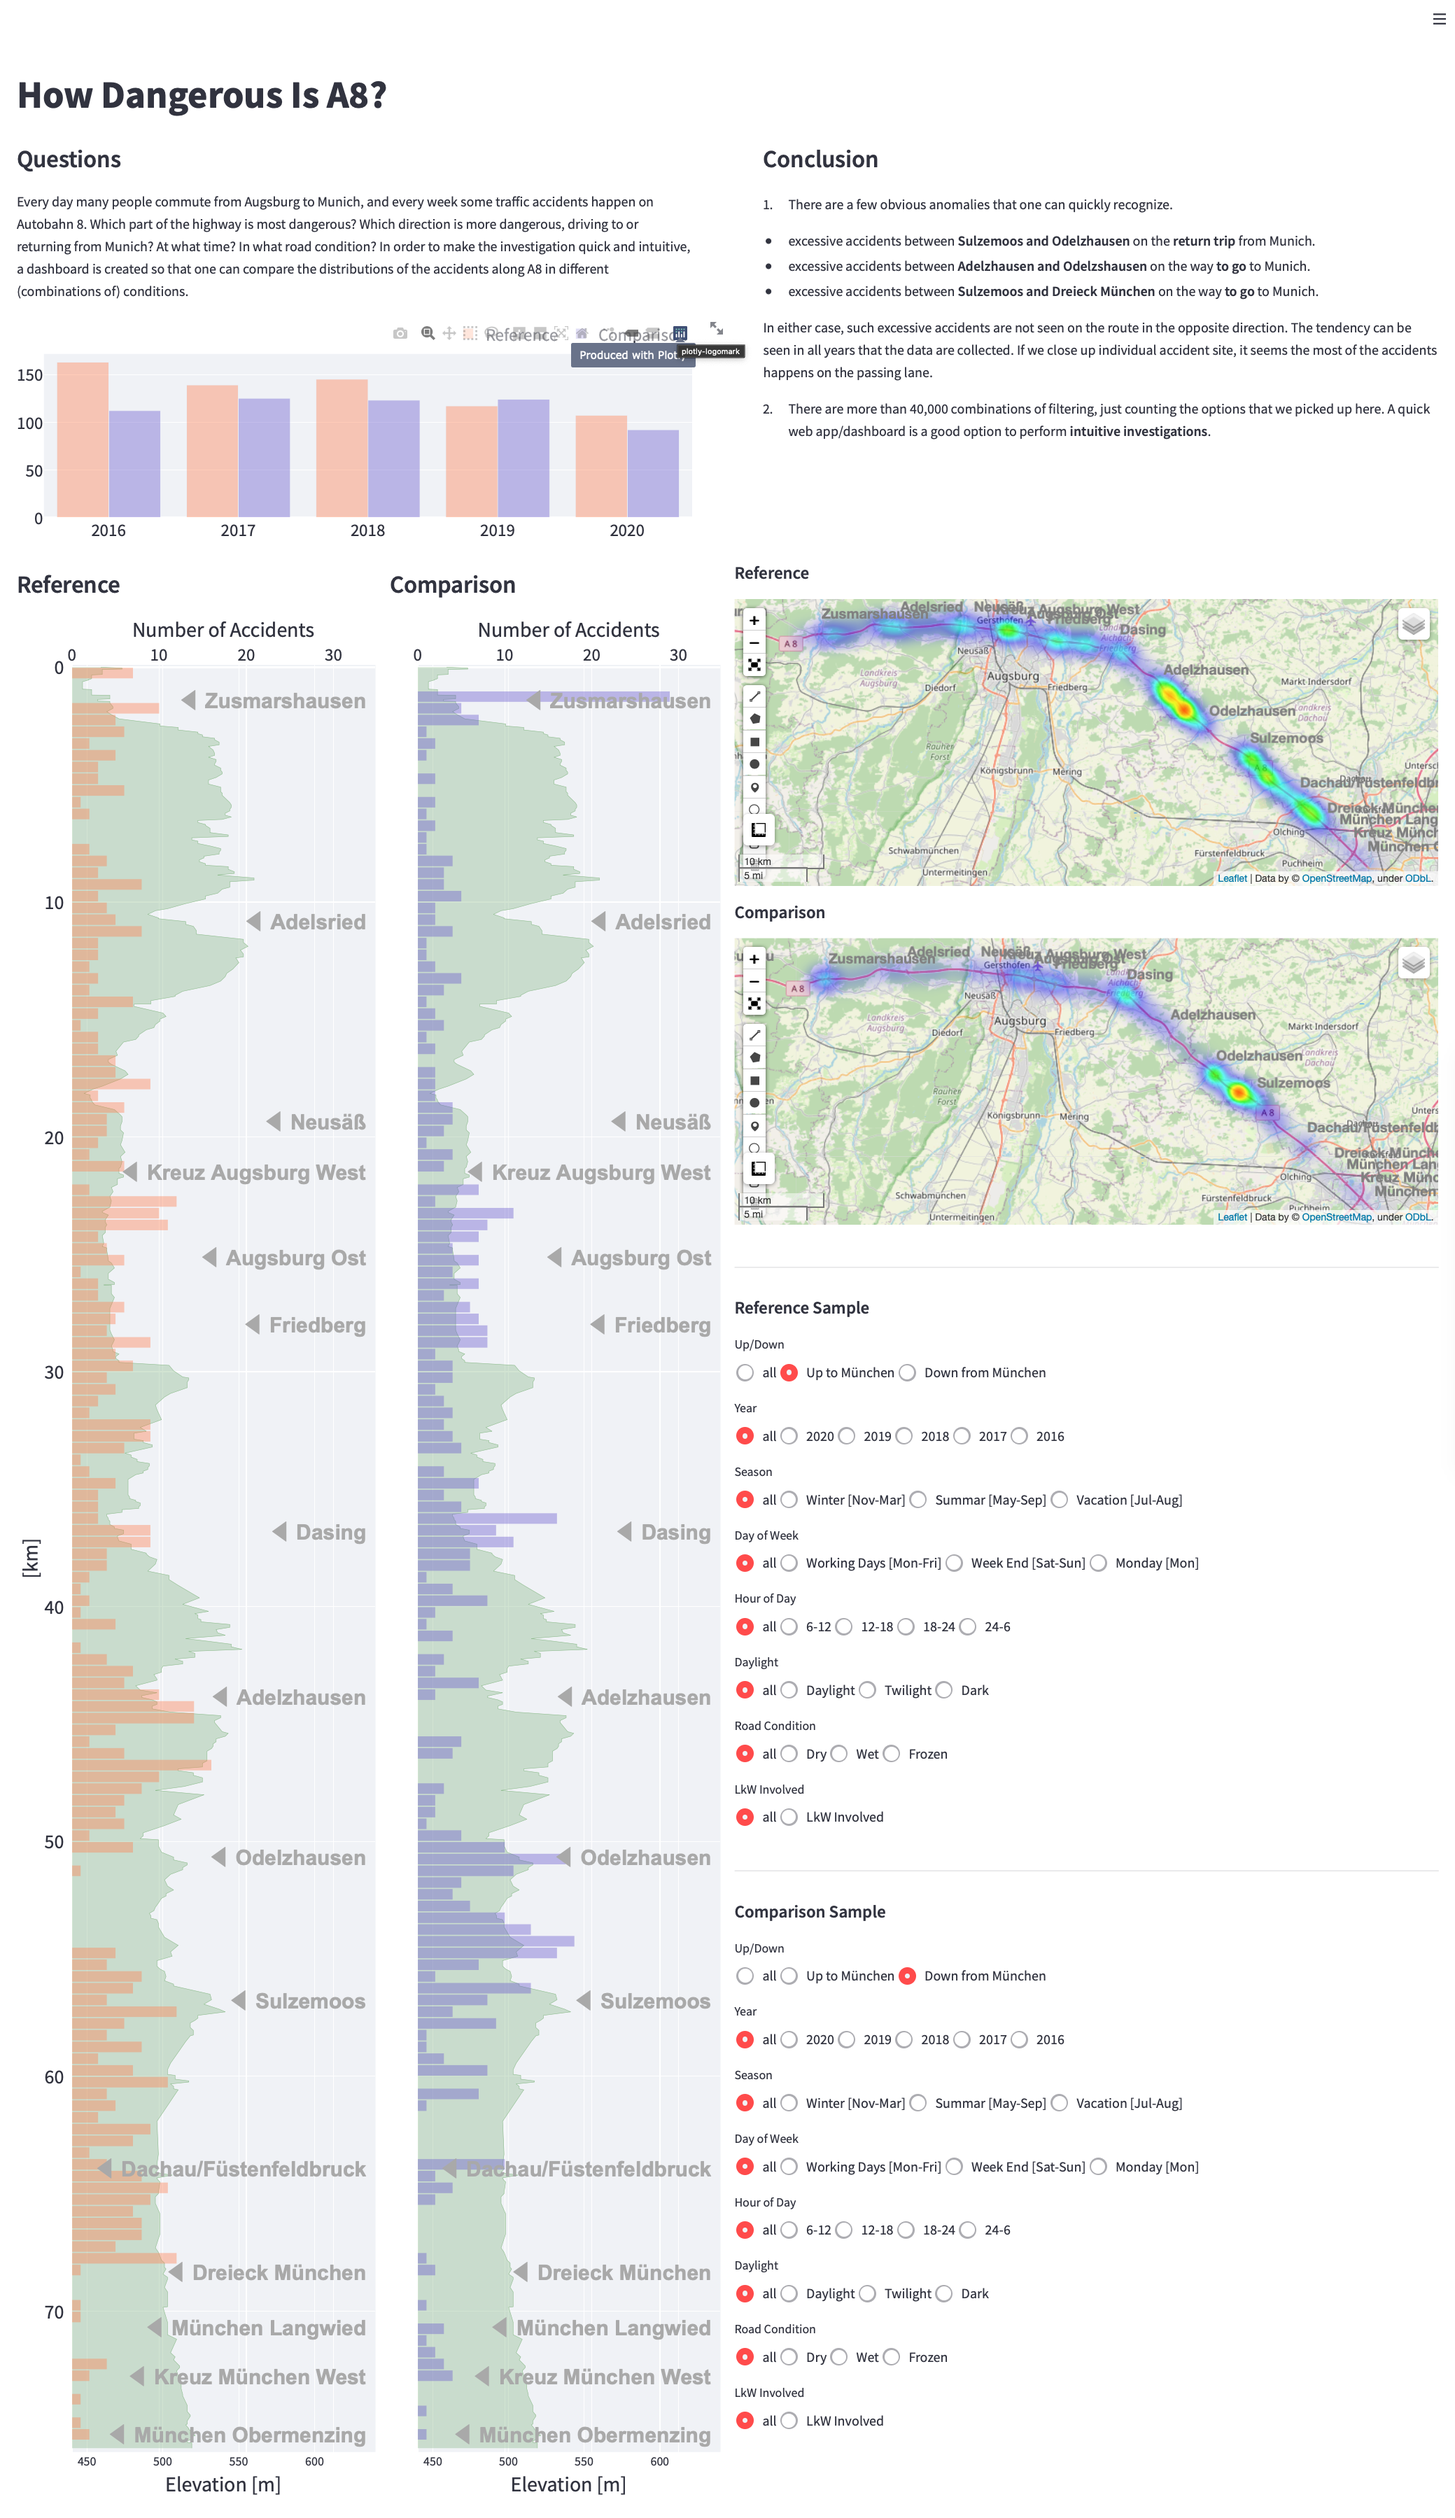
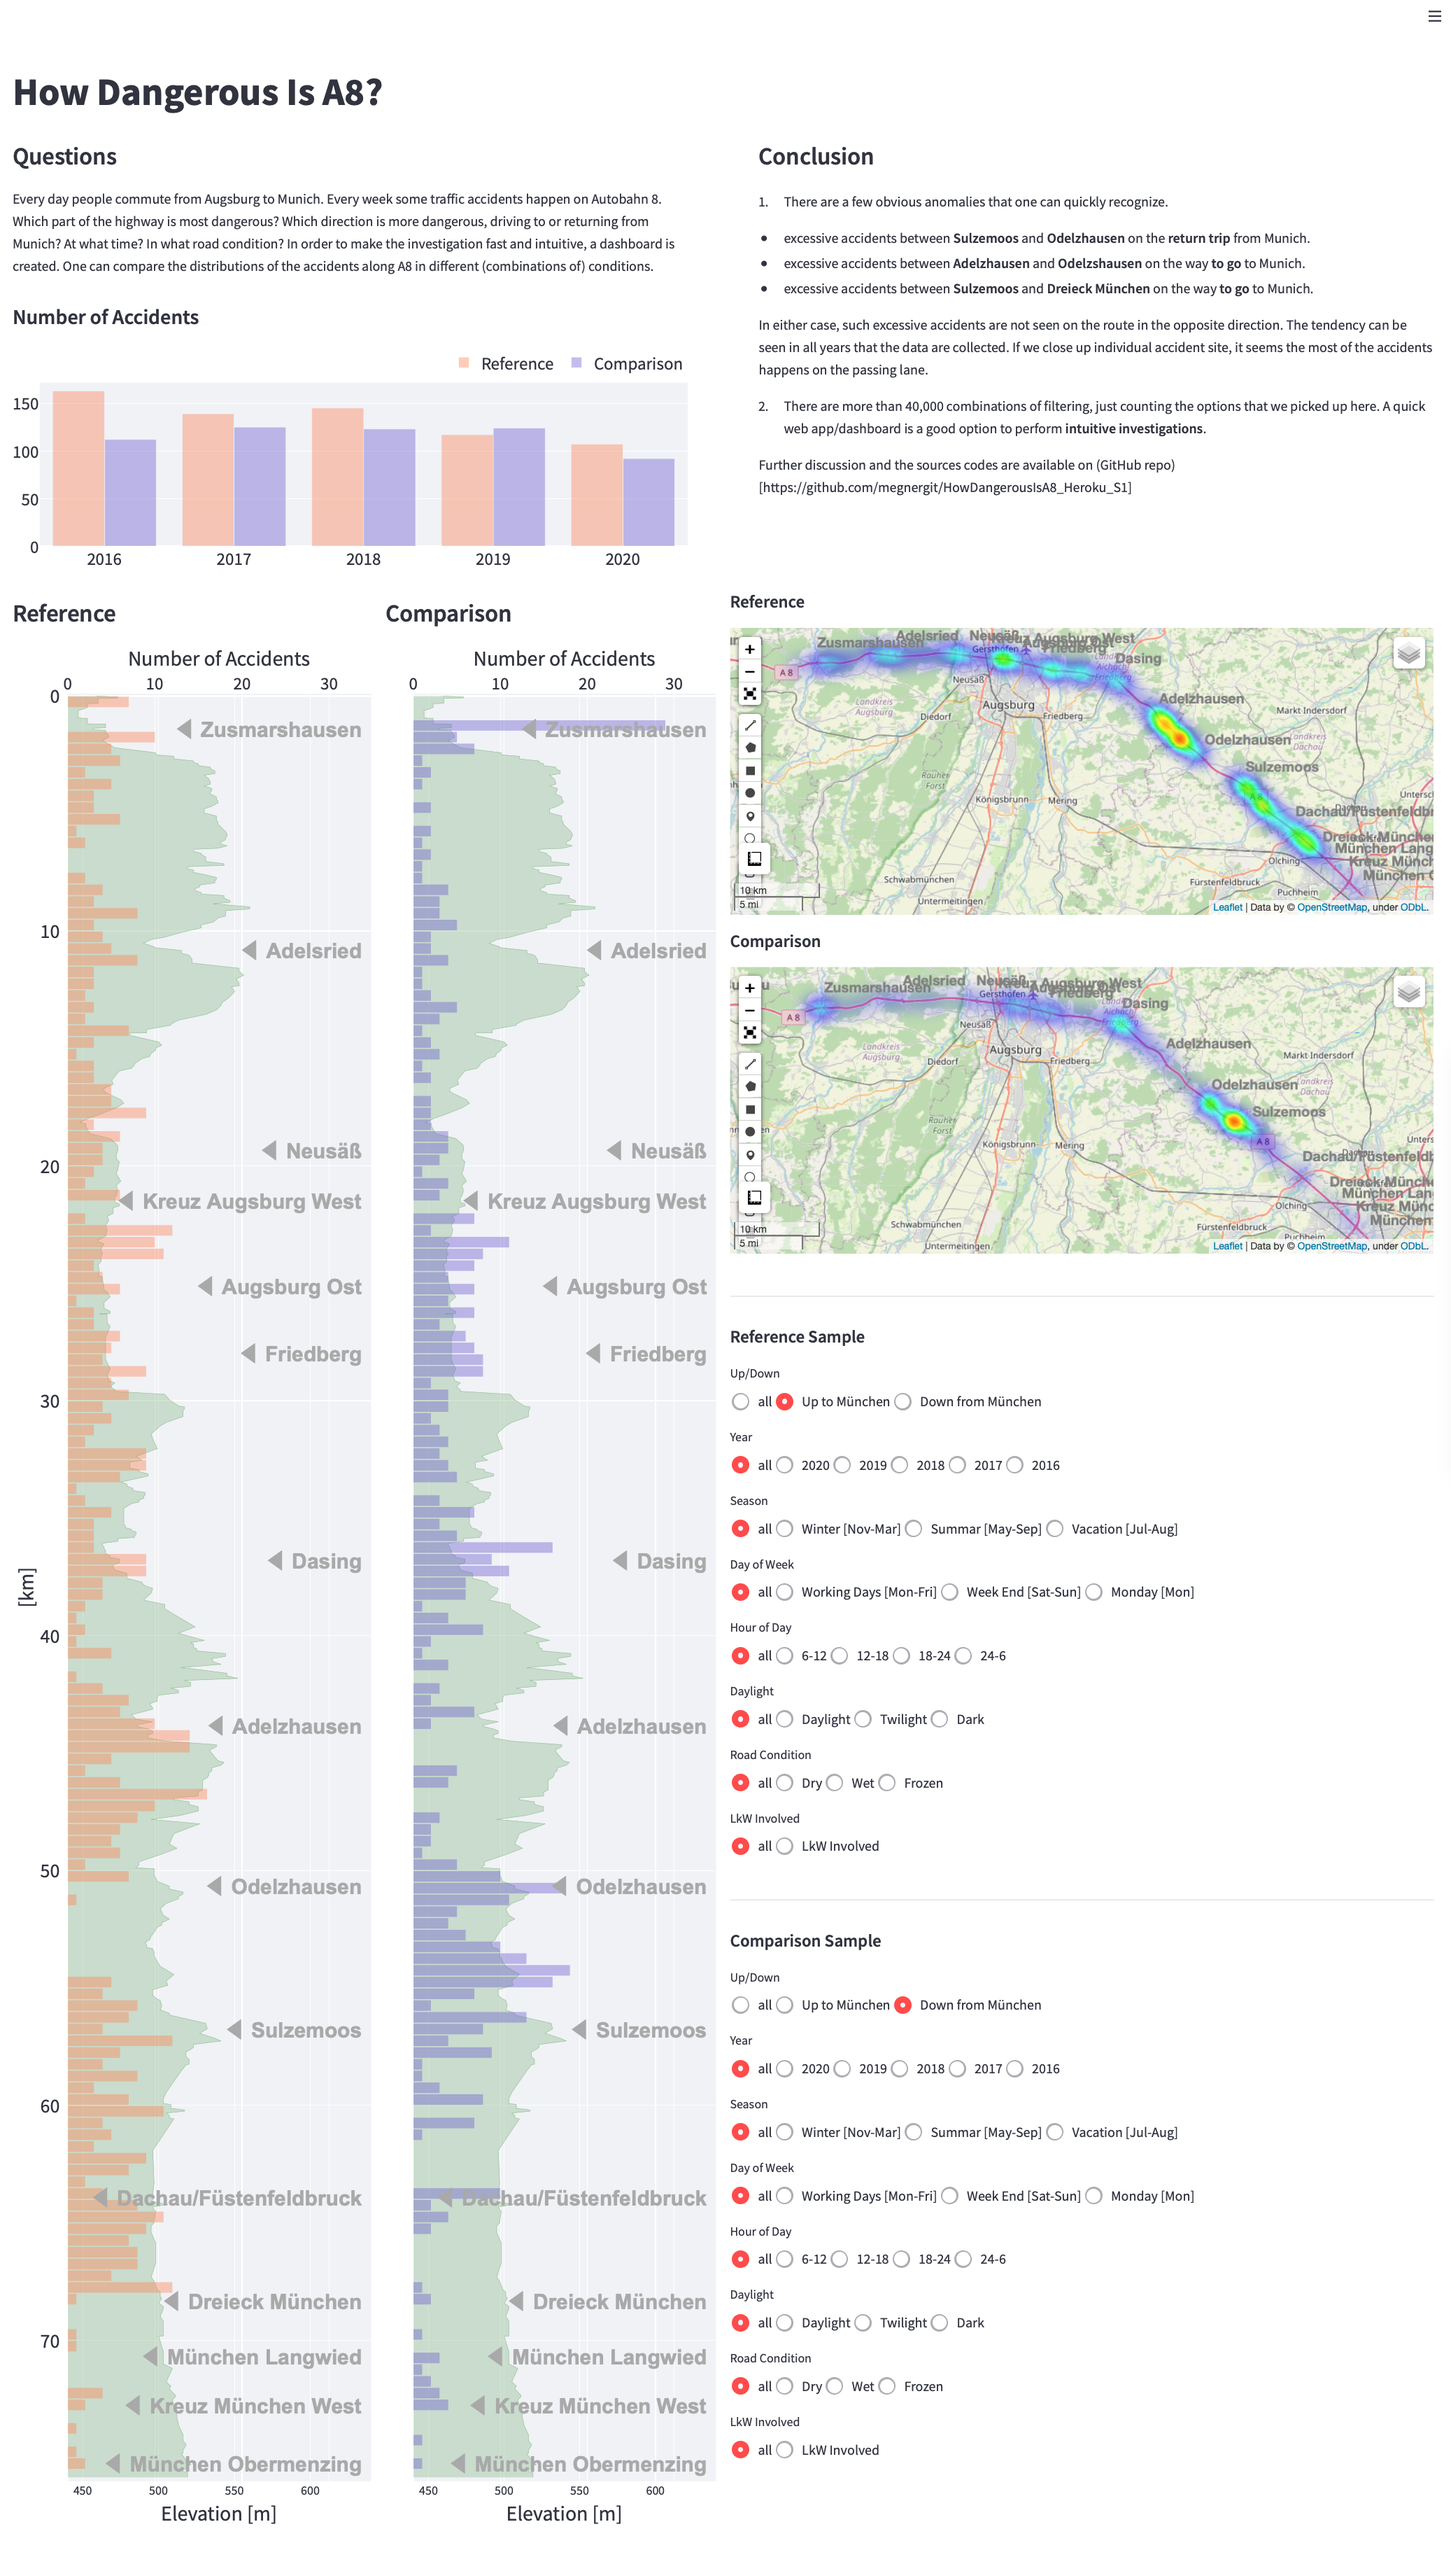
README.md added

diff --git a/a8u_app.py b/a8u_app.py
@@ -80,7 +80,7 @@ def show():
     col1, col2, col3 = st.columns((0.48, 0.04, 0.48))
     with col1:
         st.markdown(note['heading'])
-        st.markdown('#### Number of Accidents')
+        st.markdown('##### Number of Accidents')
         st.plotly_chart(fig_annual, use_container_width=True)
     with col3:
         st.markdown(note['conclusion'])

diff --git a/README.md b/README.md
@@ -20,13 +20,13 @@ The data provider of the traffic accidents in Germany is
 [Statistische Ämter des Bundes und der Länder](https://www.statistikportal.de/de/statistische-aemter)
 
 The direct link to the data is
-[HERE](https://unfallatlas.statistikportal.de/_opendata2021.html).
+[here](https://unfallatlas.statistikportal.de/_opendata2021.html).
 The data only covers the accidents that involve **personal** injuries.
 The accidents that caused only  the property damages are not included.
 
 Acknowledgement: The data presented in this App is used under the
 condition defined by Data license Germany – attribution – Version 2.0.
-The license text is available at https://www.govdata.de/dl-de/by-2-0.
+The license text is available [here](https://www.govdata.de/dl-de/by-2-0).
 
 ### Geocoding
 
@@ -90,7 +90,7 @@ dashboard possible.
 ## Screenshot
 
 The App is currently (Dec 2021) running
-[**HERE**](https://vast-waters-19154.herokuapp.com), but is scheduled
+[**here**](https://vast-waters-19154.herokuapp.com), but is scheduled
 to stop soon. When the App is running, we should see a web page
 looking like this.
 ![fig.1](./images/screen_shot.png)
